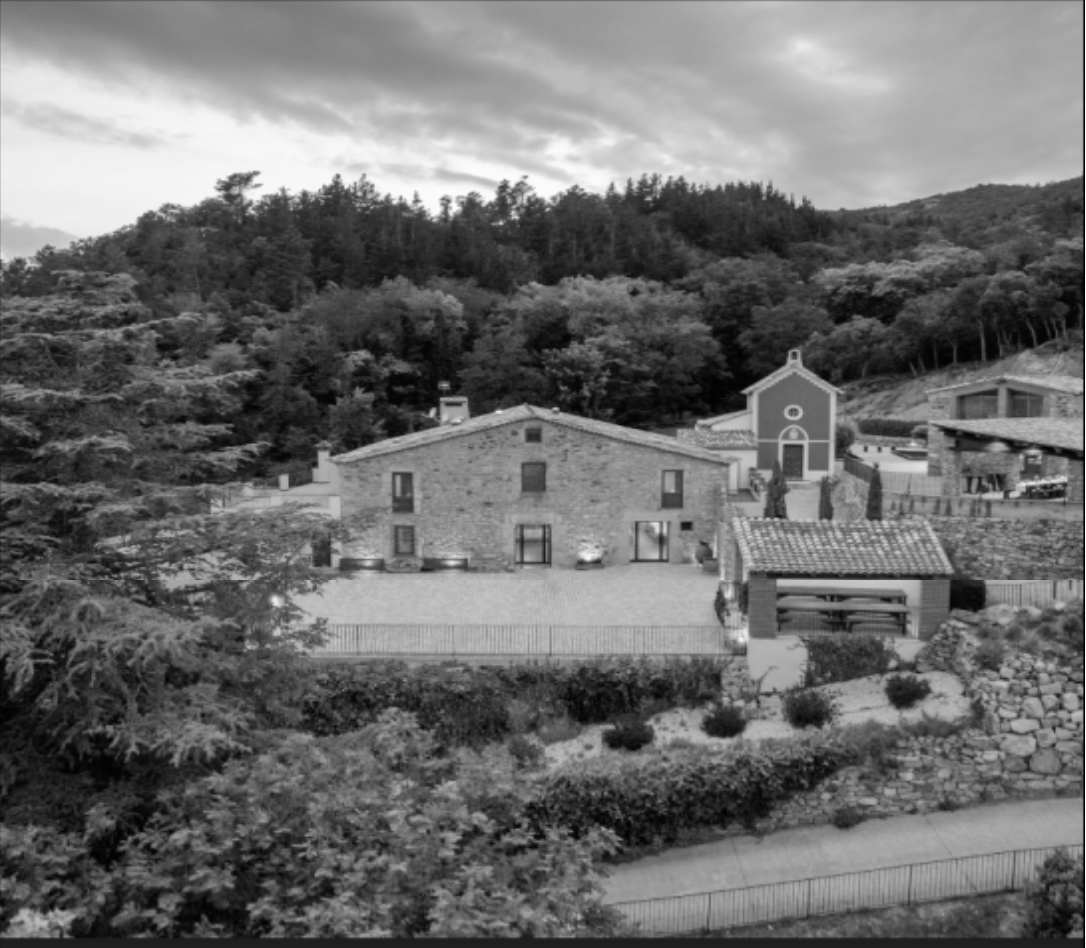
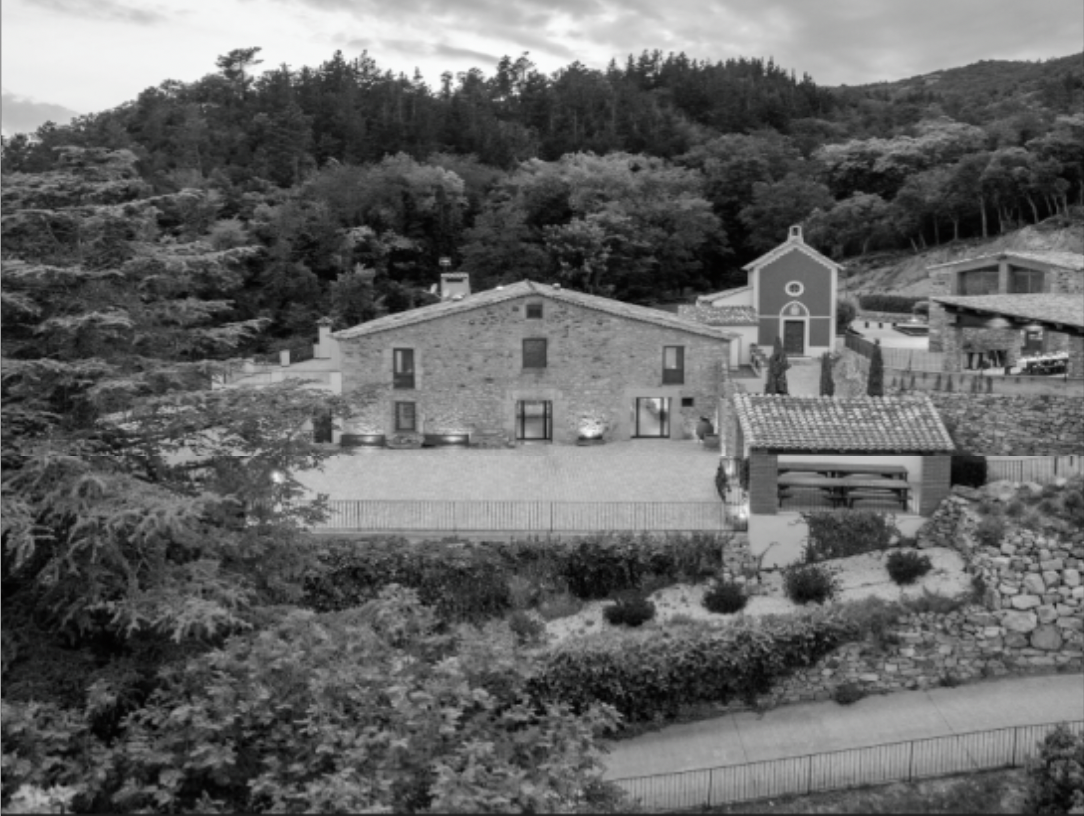
hj

diff --git a/style/styleHomepage.css b/style/styleHomepage.css
@@ -147,17 +147,17 @@
   
   
   .anreise-wrapper {
-    max-width: 100%;
-    margin: 10% auto;
+    max-width: 1200px;
+    margin: 0 auto;
   }
   
   .anreise-top {
     display: flex;
     flex-wrap: wrap;
-    gap: 0;
     justify-content: center;
-    align-items: stretch;
-    margin-bottom: -50%;
+    align-items: stretch; /* sorgt für gleiche Höhe */
+    gap: 0;
+    margin-bottom: 0;
   }
   
   .karte-hintergrund {
@@ -167,22 +167,24 @@
     background-color: var(--primary-light);
     flex: 1 1 50%;
     max-width: 50%;
-    min-height: 400px;
-    padding: 20px;
     box-sizing: border-box;
+    padding: 20px;
     display: flex;
     justify-content: center;
     align-items: center;
   }
   
+  
   .karte-box {
     background-color: #0F355E;
     padding: 20px;
     text-align: center;
-    max-width: 420px;
     width: 100%;
+    max-width: 420px;
     border: 4px solid #003E6C;
-    box-shadow: 0 0 20px rgba(0,0,0,0.4);
+    box-shadow: 0 0 20px rgba(0, 0, 0, 0.4);
+    height: 100%; /* gleicht Höhe mit Bild an */
+    box-sizing: border-box;
   }
   
   .karte-title {
@@ -205,18 +207,26 @@
   }
   
   .anreise-image {
-    flex: 1 1 50%;
+    /*flex: 1 1 50%;*/
     max-width: 50%;
+    height: 100%;
     box-sizing: border-box;
     padding-left: 2%;
     padding-top: 3%;
+    display: flex;
+    justify-content: center;
+    align-items: stretch;
   }
   
   .anreise-image img {
     width: 100%;
-    height: auto;       /* ← ganz wichtig */
+    height: 100%;
+    /*object-fit: cover;         /* Füllt Container */
+    object-position: top;  /* Zeigt unteren Teil */
     display: block;
+    border: 2px solid #fff;
   }
+  
   
   .anreise-info {
     text-align: center;
